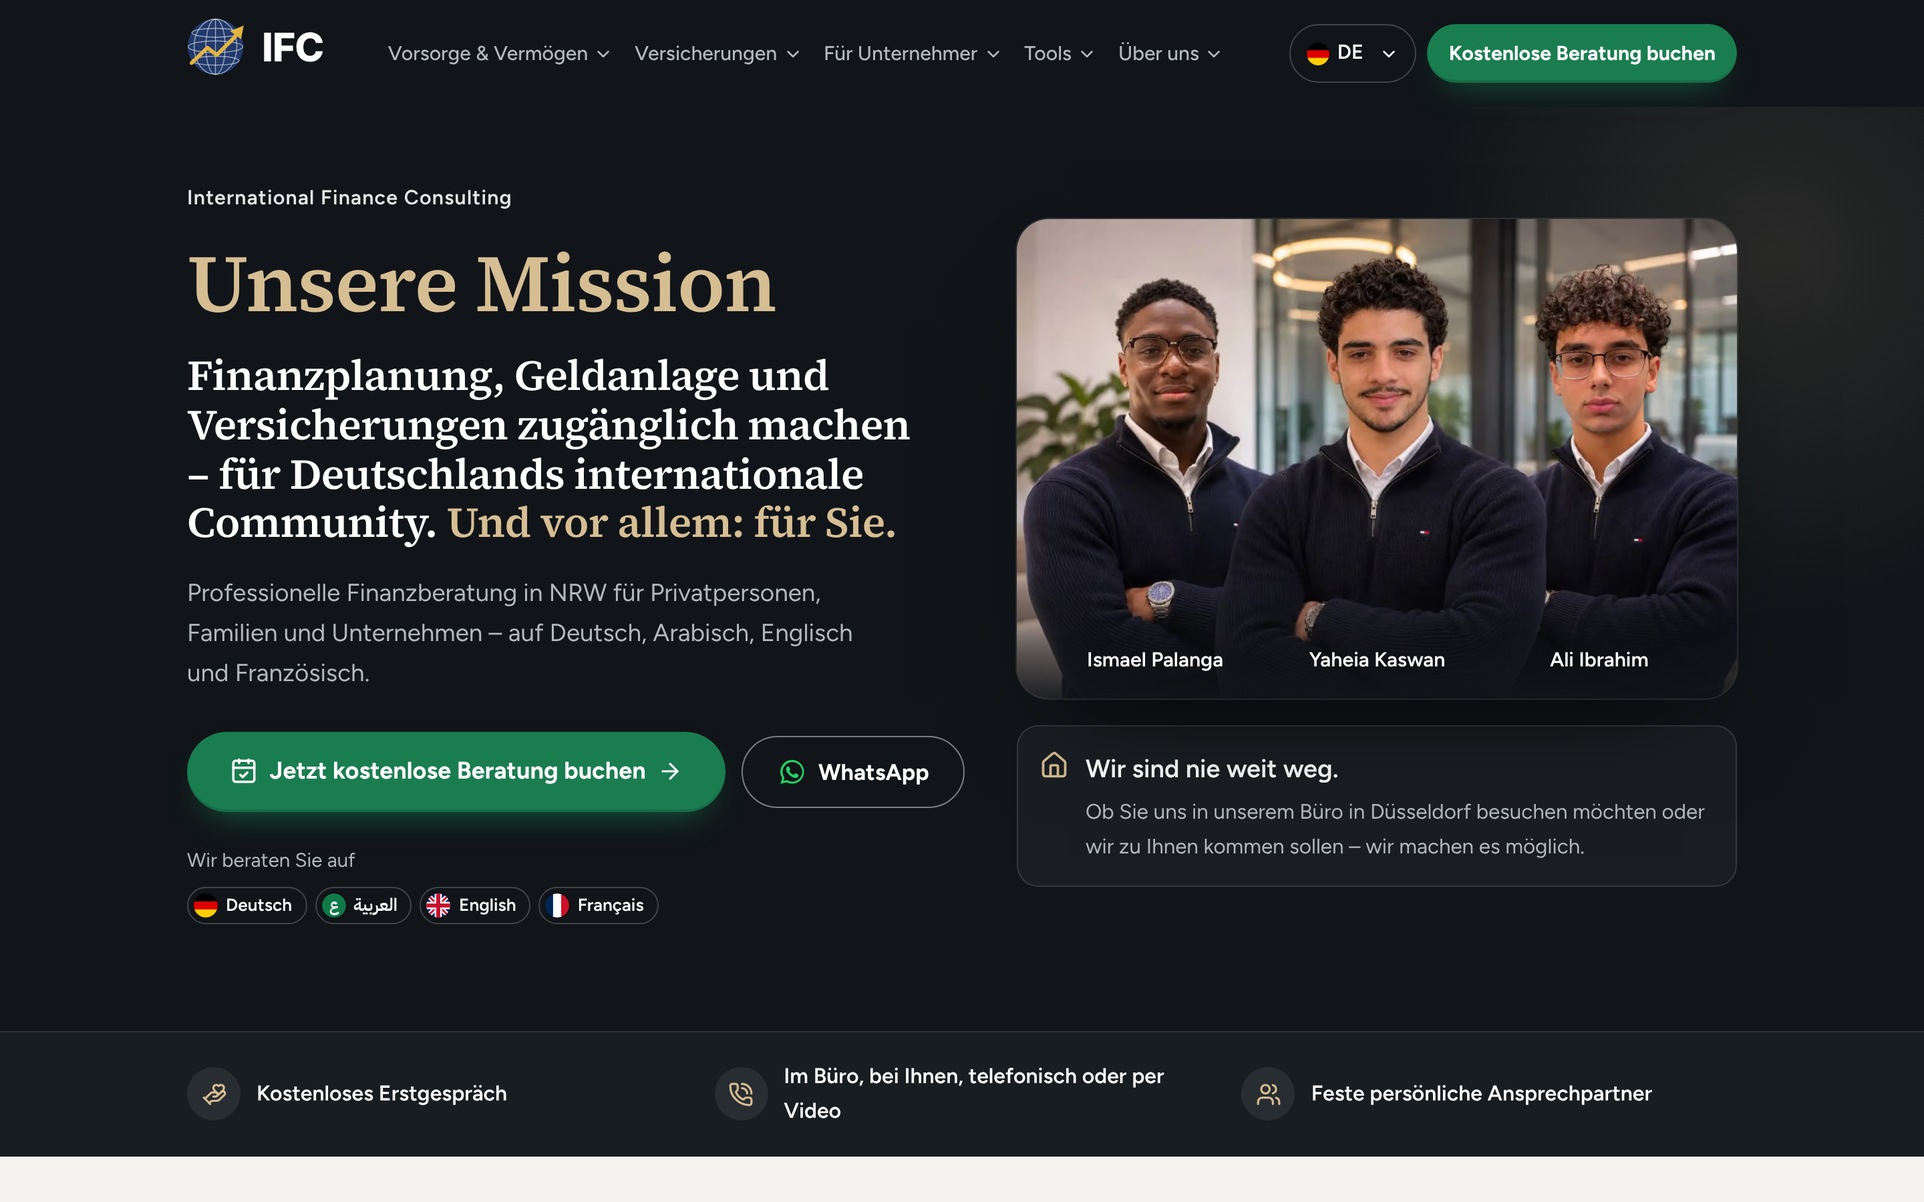
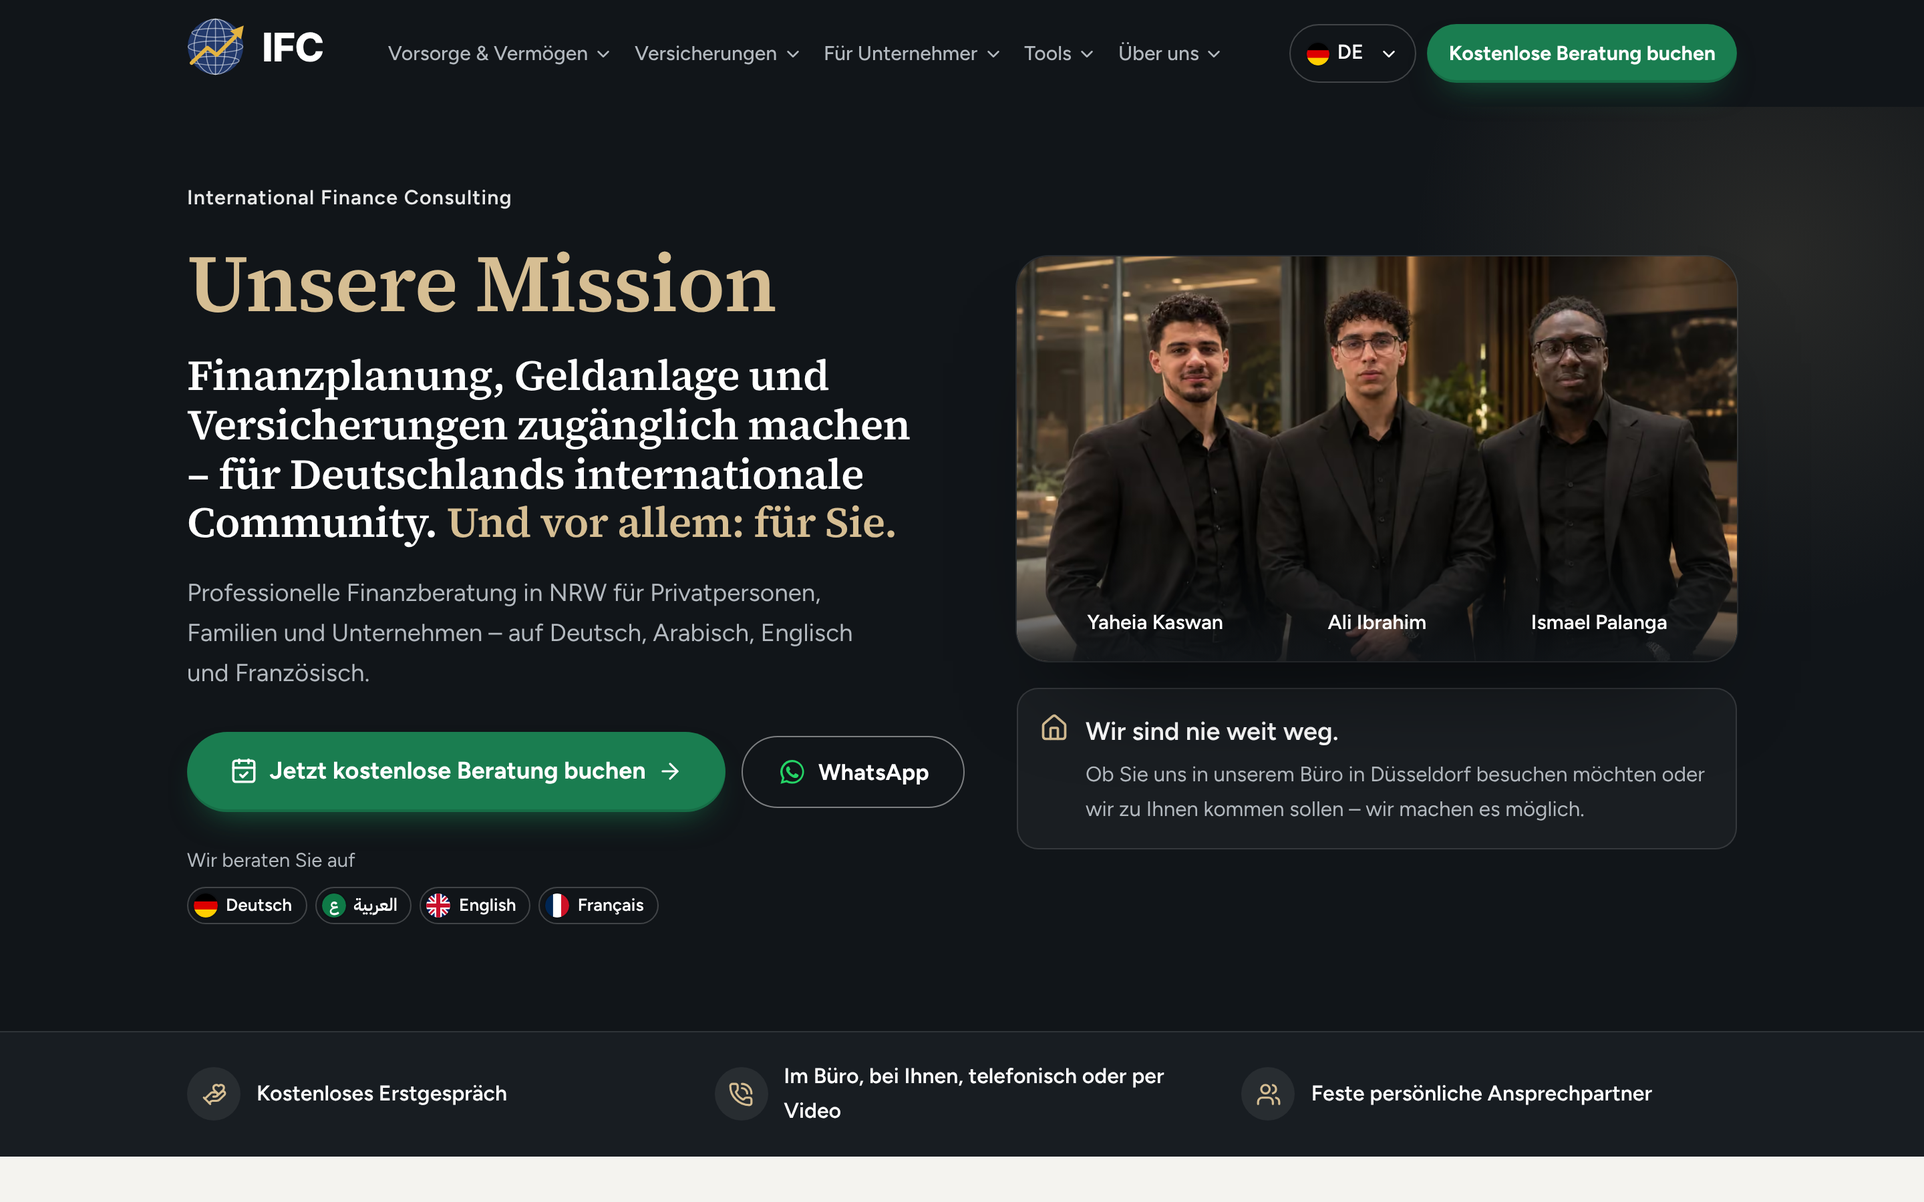
Neues Teamfoto, Yaheias Profiltext, Zitat und Kurzversion; Profilseite mit Porträt, Unterschrift und Kennenlern-Button
- Teamfoto ersetzt (Reihenfolge Yaheia, Ali, Ismael), Format 16:9
- Yaheia: ausführlicher Text, Zitat und Kurzversion in DE/EN/FR/AR
- Beraterseiten-Vorlage: Porträt (optional Büro-Foto), Unterschrift (optional als Bild, sonst Schreibschrift) und dunkelgrüner Button „Lernen wir uns persönlich kennen“

Claude-Session: https://claude.ai/code/session_017NN5d4KgF8reEG7oLsMV1M

Changed region(s): [[0.5312, 0.1556, 0.9062, 0.7156], [0.6562, 0.4978, 0.75, 0.56]]

diff --git a/src/config/advisors.ts b/src/config/advisors.ts
@@ -40,6 +40,10 @@ export type Advisor = {
   bio: Localized<string[]>;
   /** Persönlicher Leitsatz (optional) */
   quote: Localized | null;
+  /** Optional: natürliches Porträt im Büro für die Profilseite (sonst wird `portrait` genutzt) */
+  officePhoto?: string | null;
+  /** Optional: eingescannte Unterschrift (Bild). Ohne Bild wird der Name in Schreibschrift gezeigt. */
+  signature?: string | null;
   /** Belegbarer Werdegang / Hintergrund */
   background: Localized<string[]>;
   /** Tatsächlich gesprochene Beratungssprachen */
@@ -74,38 +78,59 @@ export const advisors: Advisor[] = [
     portrait: "/images/team/yaheia-kaswan.webp",
     position: null,
     short: {
-      de: "Kommt aus dem Finanz- und Versicherungsvertrieb und erklärt Vorsorge so, dass man sie wirklich versteht.",
-      en: "Comes from financial and insurance sales and explains long-term planning in a way that actually makes sense.",
-      fr: "Issu de la vente de produits financiers et d’assurance, il explique la prévoyance de façon vraiment compréhensible.",
-      ar: "يأتي من مجال المبيعات المالية والتأمين، ويشرح التخطيط للمستقبل بطريقة واضحة ومفهومة.",
+      de: "Als Unternehmer weiß ich, wie wichtig finanzielle Sicherheit, Verantwortung und bewusste Entscheidungen sind. Mein Ziel ist es, komplexe Finanz- und Versicherungsthemen verständlich zu machen und Menschen langfristig als persönlicher Ansprechpartner zu begleiten. Für mich steht dabei immer der Mensch im Mittelpunkt – nicht das Produkt.",
+      en: "As an entrepreneur, I know how important financial security, responsibility and well-informed decisions are. My goal is to make complex finance and insurance topics easy to understand and to support people as their personal contact in the long run. For me, it's always about the person – not the product.",
+      fr: "En tant qu’entrepreneur, je sais à quel point la sécurité financière, la responsabilité et les décisions réfléchies sont importantes. Mon objectif est de rendre compréhensibles les sujets complexes de finance et d’assurance et d’accompagner les gens durablement en tant qu’interlocuteur personnel. Pour moi, c’est toujours la personne qui compte – pas le produit.",
+      ar: "بصفتي صاحب عمل، أعرف مدى أهمية الأمان المالي والمسؤولية والقرارات الواعية. هدفي أن أجعل المواضيع المالية والتأمينية المعقّدة مفهومة، وأن أرافق الناس على المدى الطويل كشخص يتواصلون معه مباشرة. وبالنسبة لي، يبقى الإنسان دائماً في المركز – لا المنتج.",
     },
     bio: {
       de: [
-        "Ich bin Unternehmer und komme aus dem Finanz- und Versicherungsvertrieb. In vielen Gesprächen habe ich erlebt, dass Menschen nicht am fehlenden Willen scheitern, sondern an Fachbegriffen, Kleingedrucktem und fehlender Zeit.",
-        "Genau dort setze ich an: Ich erkläre Versicherungen und Vorsorge so, dass Sie die Zusammenhänge verstehen und in Ruhe selbst entscheiden können – auf Deutsch, Arabisch oder Englisch.",
-        "Mein Anspruch ist kein schneller Abschluss, sondern eine Begleitung, auf die Sie sich auch in fünf oder zehn Jahren noch verlassen können.",
+        "Ich bin Yaheia Kaswan – und für mich beginnt eine gute Beratung nicht mit einem Produkt, sondern mit einem Menschen.",
+        "Als Unternehmer weiß ich selbst, was es bedeutet, Verantwortung zu übernehmen, schwierige Entscheidungen zu treffen und sich Gedanken über die eigene Zukunft und die seiner Familie zu machen.",
+        "Ich weiß auch, wie herausfordernd es sein kann, sich in Deutschland mit all den finanziellen Möglichkeiten, Versicherungen und komplizierten Fachbegriffen zurechtzufinden. Gerade wenn Deutsch nicht die eigene Muttersprache ist.",
+        "Genau deshalb ist es mir wichtig, einen Unterschied zu machen. Ich möchte, dass Sie verstehen, welche Entscheidungen Sie treffen, warum Sie diese treffen und was sie langfristig für Ihr Leben bedeuten.",
+        "Bei mir müssen Sie nicht mit Vorwissen ins Gespräch kommen. Sie können jede Frage stellen, Ihre Sorgen offen ansprechen und sich die Zeit nehmen, die Sie für eine Entscheidung benötigen.",
+        "Ob Sie für Ihre Kinder vorsorgen, Ihre Familie absichern, Ihre finanzielle Zukunft gestalten oder als Unternehmer Verantwortung für Ihre Mitarbeiter übernehmen möchten – ich möchte zunächst Ihre Situation verstehen, bevor wir gemeinsam über mögliche Lösungen sprechen.",
+        "Für mich endet eine gute Beratung nicht mit einer Unterschrift. Mein Anspruch ist es, auch danach ein persönlicher Ansprechpartner für Sie zu sein.",
+        "Ich freue mich darauf, Sie persönlich kennenzulernen.",
       ],
       en: [
-        "I'm an entrepreneur with a background in financial and insurance sales. In many conversations I've seen that people rarely hold back because they don't care – it's the jargon, the small print and the lack of time.",
-        "That's where I come in: I explain insurance and long-term planning so you understand how things fit together and can decide for yourself, without pressure – in German, Arabic or English.",
-        "I'm not after a quick signature. I want to be someone you can still rely on in five or ten years.",
+        "I'm Yaheia Kaswan – and for me, good advice doesn't start with a product. It starts with a person.",
+        "As an entrepreneur, I know first-hand what it means to take on responsibility, make difficult decisions and think about your own future and that of your family.",
+        "I also know how challenging it can be to find your way through all the financial options, insurance policies and complicated jargon in Germany – especially when German isn't your first language.",
+        "That's exactly why I want to make a difference. I want you to understand which decisions you're making, why you're making them and what they mean for your life in the long run.",
+        "You don't need any prior knowledge to talk to me. You can ask any question, share your concerns openly and take all the time you need to make a decision.",
+        "Whether you want to provide for your children, protect your family, shape your financial future or, as a business owner, take responsibility for your employees – I first want to understand your situation before we talk about possible solutions together.",
+        "For me, good advice doesn't end with a signature. I want to remain your personal point of contact long after that.",
+        "I look forward to getting to know you personally.",
       ],
       fr: [
-        "Je suis entrepreneur et je viens de la vente de produits financiers et d’assurance. Au fil de nombreux échanges, j’ai constaté que les gens ne manquent pas de volonté : ce qui les freine, ce sont le jargon, les petites lignes et le manque de temps.",
-        "C’est là que j’interviens : je vous explique l’assurance et la prévoyance pour que vous compreniez l’ensemble et puissiez décider sereinement, en allemand, en arabe ou en anglais.",
-        "Mon objectif n’est pas une signature rapide, mais un accompagnement sur lequel vous pourrez encore compter dans cinq ou dix ans.",
+        "Je suis Yaheia Kaswan – et pour moi, un bon conseil ne commence pas par un produit, mais par une personne.",
+        "En tant qu’entrepreneur, je sais moi-même ce que signifie prendre des responsabilités, faire des choix difficiles et se soucier de son avenir et de celui de sa famille.",
+        "Je sais aussi à quel point il peut être difficile de s’y retrouver en Allemagne entre toutes les possibilités financières, les assurances et les termes techniques compliqués – surtout quand l’allemand n’est pas sa langue maternelle.",
+        "C’est justement pour cela que je veux faire la différence. Je veux que vous compreniez quelles décisions vous prenez, pourquoi vous les prenez et ce qu’elles signifient pour votre vie sur le long terme.",
+        "Avec moi, aucune connaissance préalable n’est nécessaire. Vous pouvez poser toutes vos questions, parler ouvertement de vos inquiétudes et prendre le temps dont vous avez besoin pour décider.",
+        "Que vous souhaitiez préparer l’avenir de vos enfants, protéger votre famille, construire votre avenir financier ou, en tant qu’entrepreneur, assumer vos responsabilités envers vos salariés – je veux d’abord comprendre votre situation avant que nous parlions ensemble des solutions possibles.",
+        "Pour moi, un bon conseil ne s’arrête pas à une signature. Mon ambition est de rester votre interlocuteur personnel par la suite.",
+        "Je me réjouis de faire votre connaissance.",
       ],
       ar: [
-        "أنا صاحب عمل خاص، وخبرتي في مجال المبيعات المالية والتأمين. ومن خلال لقاءات كثيرة لاحظت أن الناس لا يتأخرون في تأمين أنفسهم لأنهم لا يهتمون، بل لأن المصطلحات معقدة، والتفاصيل كثيرة، والوقت قليل.",
-        "وهنا يأتي دوري: أشرح لك التأمين والتخطيط للمستقبل بكلام واضح، حتى تفهم الصورة كاملة وتتخذ قرارك بنفسك وبدون ضغط، بالعربية أو الألمانية أو الإنجليزية.",
-        "هدفي ليس توقيع عقد بسرعة، بل علاقة ثقة تستطيع أن تعتمد عليها بعد خمس أو عشر سنوات أيضاً.",
+        "أنا يحيى كسوان – وبالنسبة لي، لا تبدأ الاستشارة الجيدة بمنتج، بل بإنسان.",
+        "بصفتي صاحب عمل، أعرف بنفسي معنى أن تتحمّل المسؤولية، وأن تتخذ قرارات صعبة، وأن تفكّر في مستقبلك ومستقبل عائلتك.",
+        "وأعرف أيضاً كم قد يكون صعباً أن تجد طريقك في ألمانيا بين كل الخيارات المالية والتأمينات والمصطلحات المعقّدة – خاصة عندما لا تكون الألمانية لغتك الأم.",
+        "ولهذا بالتحديد يهمّني أن أُحدث فرقاً. أريد أن تفهم ما هي القرارات التي تتخذها، ولماذا تتخذها، وماذا تعني لحياتك على المدى البعيد.",
+        "معي لا تحتاج إلى أي معرفة مسبقة. يمكنك أن تسأل أي سؤال، وأن تتحدث بصراحة عن مخاوفك، وأن تأخذ الوقت الذي تحتاجه لاتخاذ قرارك.",
+        "سواء أردت أن تؤمّن مستقبل أطفالك، أو تحمي عائلتك، أو تبني مستقبلك المالي، أو أن تتحمّل مسؤوليتك تجاه موظفيك كصاحب عمل – أريد أولاً أن أفهم وضعك، قبل أن نتحدث معاً عن الحلول الممكنة.",
+        "بالنسبة لي، لا تنتهي الاستشارة الجيدة بالتوقيع. وهدفي أن أبقى الشخص الذي تتواصل معه مباشرة بعد ذلك أيضاً.",
+        "يسعدني أن أتعرّف عليك شخصياً.",
       ],
     },
+    /* Persönlicher Text von Yaheia (DE), übersetzt EN/FR/AR */
     quote: {
-      de: "Ich möchte, dass Sie jede Entscheidung verstehen – nicht nur unterschreiben.",
-      en: "I want you to understand every decision – not just sign it.",
-      fr: "Je veux que vous compreniez chaque décision, pas seulement que vous la signiez.",
-      ar: "أريدك أن تفهم كل قرار، لا أن توقّع عليه فقط.",
+      de: "Ich möchte nicht, dass Menschen eine Entscheidung treffen, nur weil sie mir vertrauen. Ich möchte, dass sie mir vertrauen, weil sie ihre Entscheidung verstehen.",
+      en: "I don't want people to make a decision just because they trust me. I want them to trust me because they understand their decision.",
+      fr: "Je ne veux pas que les gens prennent une décision simplement parce qu’ils me font confiance. Je veux qu’ils me fassent confiance parce qu’ils comprennent leur décision.",
+      ar: "لا أريد أن يتخذ الناس قراراً لمجرد أنهم يثقون بي. بل أريد أن يثقوا بي لأنهم يفهمون قرارهم.",
     },
     background: {
       de: ["Unternehmer", "Finanz- und Versicherungsvertrieb im Umfeld von ERGO Pro / ONE Financial Services AG"],

diff --git a/src/components/service/Pages.tsx b/src/components/service/Pages.tsx
@@ -347,6 +347,9 @@ export function AboutPage({ locale, t }: { locale: Locale; t: Dict }) {
 }
 
 /* ================================================================ Beraterseite */
+const meetLabel: Record<Locale, string> = { de: "Lernen wir uns persönlich kennen", en: "Let’s meet in person", fr: "Faisons connaissance", ar: "لنتعرّف على بعض شخصياً" };
+const yoursLabel: Record<Locale, string> = { de: "Ihr", en: "Yours,", fr: "Votre", ar: "" };
+
 export function TeamMemberPage({ locale, t, a }: { locale: Locale; t: Dict; a: Advisor }) {
   const name = advisorName(a, locale);
   const others = activeAdvisors().filter((x) => x.id !== a.id);
@@ -386,6 +389,17 @@ export function TeamMemberPage({ locale, t, a }: { locale: Locale; t: Dict; a: A
             <div className="space-y-4">{a.bio[locale].map((p) => <p key={p}>{p}</p>)}</div>
           </div>
           <aside className="space-y-3">
+            {/* Persönlich: Porträt, Unterschrift, Einladung zum Kennenlernen */}
+            <div className="overflow-hidden rounded-2xl border border-line bg-paper">
+              <Portrait src={a.officePhoto ?? a.portrait} alt={name} initials={initials(a)} placeholderLabel={t.common.portraitPlaceholder} className="aspect-[4/4.4] w-full" sizes="(min-width:1024px) 420px, 100vw" />
+              <div className="p-5">
+                {yoursLabel[locale] && <p className="text-[0.95rem] text-muted">{yoursLabel[locale]}</p>}
+                {a.signature
+                  ? <Image src={a.signature} alt={name} width={320} height={110} className="h-16 w-auto" />
+                  : <p dir="ltr" className="text-[2.6rem] leading-none text-navy" style={{ fontFamily: "Allura, cursive" }}>{a.firstName} {a.lastName}</p>}
+                <a href="#termin" className="btn btn-cta mt-5 w-full" data-track={`meet_${a.slug}`}><CalendarCheck size={19} aria-hidden="true" /> {meetLabel[locale]}</a>
+              </div>
+            </div>
             <div className="rounded-2xl bg-ivory p-5">
               <h2 className="font-semibold text-navy">{t.team.background}</h2>
               <ul className="mt-2 space-y-2 text-[0.95rem]">{a.background[locale].map((b) => <li key={b} className="flex gap-2"><Check size={17} className="mt-0.5 shrink-0 text-brass" aria-hidden="true" />{b}</li>)}</ul>

diff --git a/src/components/home/HomeV4.tsx b/src/components/home/HomeV4.tsx
@@ -82,7 +82,7 @@ function Hero({ locale, t }: { locale: Locale; t: Dict }) {
 
         <figure className="reveal reveal-delay-2">
           <div className="relative overflow-hidden rounded-[1.5rem] shadow-[0_40px_80px_-40px_rgba(0,0,0,.8)] ring-1 ring-white/10">
-            {company.teamPhoto && <Image src={company.teamPhoto} alt={h.photoAlt} width={1600} height={1067} priority sizes="(min-width:1024px) 600px, 100vw" className="h-auto w-full object-cover" />}
+            {company.teamPhoto && <Image src={company.teamPhoto} alt={h.photoAlt} width={1600} height={900} priority sizes="(min-width:1024px) 600px, 100vw" className="h-auto w-full object-cover" />}
             <div className="absolute inset-x-0 bottom-0 bg-gradient-to-t from-[#111519]/90 via-[#111519]/40 to-transparent px-3 pb-3 pt-14 sm:px-5 sm:pb-4">
               <ul className="grid grid-cols-3 text-center text-[0.82rem] font-semibold sm:text-[0.95rem]" dir="ltr">
                 {order.map((a) => <li key={a.id}><Link href={teamHref(locale, a.slug)} className="hover:text-champagne-light">{advisorName(a, locale)}</Link></li>)}

diff --git a/src/config/company.ts b/src/config/company.ts
@@ -40,7 +40,7 @@ export const company = {
   /** Optionale Fotos für „Fragen, die Sie sich stellen“ (Querformat). null = gestaltete Grafik */
   issueImages: { private: null as string | null, business: null as string | null },
   /** Reihenfolge der Personen auf dem Teamfoto (für Bildbeschreibung), von links */
-  teamPhotoOrder: ["ismael-palanga", "yaheia-kaswan", "ali-ibrahim"],
+  teamPhotoOrder: ["yaheia-kaswan", "ali-ibrahim", "ismael-palanga"],
   /** Bild im Abschnitt „Was uns verbindet“ – eigenes Foto hier eintragen (public/images/…) */
   whyImage: "/images/topics/advice.webp",
   email: null as string | null,

diff --git a/src/app/globals.css b/src/app/globals.css
@@ -9,6 +9,7 @@
 
 @import "@fontsource-variable/source-serif-4/index.css";
 @import "@fontsource-variable/inter/index.css";
+@import "@fontsource/allura/latin-400.css"; /* Schreibschrift für die Unterschrift auf Beraterseiten */
 
 /* ===================================================================
    DESIGN TOKENS – „Graphit & Gold“ (Farbkonzept auf Kundenwunsch beibehalten)
